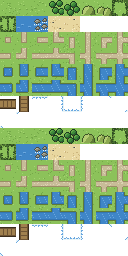
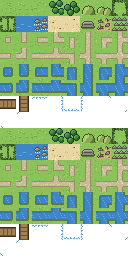
Buildings and fortifications
City, Factory, Airfield, Port and HQ drawn as Normandy stone buildings
with roofs and banners in the owner's color, from a sheet with one
column per owner. They draw under the range tints and replace the
corner flag. Bunker, rubble and dragon's teeth fill terrain tiles
13-15. The pack format gains a properties sheet.

Changed region(s): [[0.625, 0.5625, 1.0, 0.625], [0.625, 0.0625, 1.0, 0.125]]

diff --git a/src/game/artPack.ts b/src/game/artPack.ts
@@ -3,7 +3,7 @@
 // pack can replace one unit or everything. Art never affects the rules.
 
 import { NATIONS, type NationId } from "../engine/data/nations";
-import { TERRAIN, TERRAIN_IDS, type TerrainId } from "../engine/data/terrain";
+import { TERRAIN, TERRAIN_IDS, terrainDef, type TerrainId } from "../engine/data/terrain";
 import { UNIT_TYPE_IDS, UNITS, type UnitTypeId } from "../engine/data/units";
 
 const BUILT_IN_COLORS = {
@@ -76,12 +76,23 @@ export interface TerrainSheet {
   readonly shore?: number;
 }
 
+/** Buildings for owned properties: one row per property, one column per owner (08-art-pipeline §15). */
+export interface PropertySheet {
+  /** Relative to the pack's folder. */
+  readonly path: string;
+  /** The owner each column is for: "neutral", or a player's `team`. */
+  readonly columns: readonly string[];
+  /** The property on each row, top to bottom. */
+  readonly rows: readonly TerrainId[];
+}
+
 export interface ArtPack {
   readonly name: string;
   readonly players: readonly PlayerArt[];
   readonly colors: Readonly<Record<ColorKey, string>>;
   readonly unitSheets: readonly UnitSheet[];
   readonly terrain: TerrainSheet | null;
+  readonly properties: PropertySheet | null;
   readonly unitNames: Readonly<Partial<Record<UnitTypeId, string>>>;
   readonly terrainNames: Readonly<Partial<Record<TerrainId, string>>>;
 }
@@ -98,6 +109,7 @@ export const BUILT_IN_PACK: ArtPack = {
   colors: BUILT_IN_COLORS,
   unitSheets: [],
   terrain: null,
+  properties: null,
   unitNames: {},
   terrainNames: {},
 };
@@ -187,6 +199,19 @@ function parseTerrainSheet(raw: unknown): TerrainSheet {
   };
 }
 
+function parsePropertySheet(raw: unknown): PropertySheet {
+  if (!isObject(raw)) return fail(`"properties" must be an object`);
+  const { path, columns, rows } = raw;
+  if (!isRelativePath(path)) return fail(`properties: "path" must be a file in the pack`);
+  if (!Array.isArray(columns) || columns.length === 0 || !columns.every((c) => typeof c === "string" && c !== "")) {
+    return fail(`properties: "columns" must be a list of owner names`);
+  }
+  if (!Array.isArray(rows)) return fail(`properties: "rows" must be a list`);
+  const bad: unknown = rows.find((row: unknown) => !isTerrain(row) || terrainDef(row).property === undefined);
+  if (bad !== undefined) return fail(`properties: ${JSON.stringify(bad)} isn't a property`);
+  return { path, columns: columns as string[], rows: rows as TerrainId[] };
+}
+
 function parseNames<K extends string>(raw: unknown, isKey: (key: unknown) => key is K, label: string): Partial<Record<K, string>> {
   if (!isObject(raw)) return fail(`"${label}" must be an object`);
   for (const [key, value] of Object.entries(raw)) {
@@ -200,7 +225,7 @@ function parseNames<K extends string>(raw: unknown, isKey: (key: unknown) => key
 export function parseArtPack(raw: unknown): ArtPack {
   if (!isObject(raw)) return fail("a pack must be an object");
   if (typeof raw.name !== "string" || raw.name === "") return fail(`a pack needs a "name"`);
-  const { players, colors, unitSheets, terrain, unitNames, terrainNames } = raw;
+  const { players, colors, unitSheets, terrain, properties, unitNames, terrainNames } = raw;
   if (unitSheets !== undefined && !Array.isArray(unitSheets)) return fail(`"unitSheets" must be a list`);
   return {
     name: raw.name,
@@ -208,6 +233,7 @@ export function parseArtPack(raw: unknown): ArtPack {
     colors: colors === undefined ? BUILT_IN_COLORS : parseColors(colors),
     unitSheets: ((unitSheets ?? []) as unknown[]).map(parseUnitSheet),
     terrain: terrain === undefined ? null : parseTerrainSheet(terrain),
+    properties: properties === undefined ? null : parsePropertySheet(properties),
     unitNames: unitNames === undefined ? {} : parseNames(unitNames, isUnitType, "unitNames"),
     terrainNames: terrainNames === undefined ? {} : parseNames(terrainNames, isTerrain, "terrainNames"),
   };
@@ -218,6 +244,18 @@ export interface UnitArt {
   readonly sheet: number;
   readonly row: number;
   readonly frames: number;
+}
+
+/**
+ * Which frame of the buildings sheet draws this property for this owner (null = unowned), or null to
+ * keep the placeholder and its corner flag.
+ */
+export function findPropertyArt(pack: ArtPack, terrain: TerrainId, owner: number | null): number | null {
+  const sheet = pack.properties;
+  if (!sheet) return null;
+  const column = sheet.columns.indexOf(owner === null ? "neutral" : (pack.players[owner % pack.players.length]?.team ?? ""));
+  const row = sheet.rows.indexOf(terrain);
+  return column < 0 || row < 0 ? null : row * sheet.columns.length + column;
 }
 
 /** Where to find this unit's art for this nation and player, or null to use the placeholder. */

diff --git a/src/game/MapScene.ts b/src/game/MapScene.ts
@@ -1,10 +1,10 @@
 import Phaser from "phaser";
 import type { Combatant, GameEvent } from "../engine/commands";
 import { veterancyFor } from "../engine/data/veterancy";
-import type { Point } from "../engine/map";
+import { terrainAt, type Point } from "../engine/map";
 import { displayHp, type GameState, type Unit, type UnitId } from "../engine/state";
 import * as stats from "../engine/stats";
-import { activePack, findUnitArt, packColor, packColorNumber, type ColorKey } from "./artPack";
+import { activePack, findPropertyArt, findUnitArt, packColor, packColorNumber, type ColorKey } from "./artPack";
 import type { MapView, MenuItem, RangeKind, RangeLayer } from "./controller";
 import { packFileUrl } from "./loadArtPack";
 import { drawPixelText, GLYPH_HEIGHT, textWidth } from "./pixelFont";
@@ -38,6 +38,7 @@ const MENU = { pad: 3, itemHeight: GLYPH_HEIGHT + 4 };
 const IDLE_FRAMES_PER_SECOND = 3;
 const unitSheetKey = (sheet: number) => `pack-units-${sheet}`;
 const TERRAIN_SHEET_KEY = "pack-terrain";
+const PROPERTY_SHEET_KEY = "pack-properties";
 /** How long each frame of moving water shows. */
 const TERRAIN_FRAME_MS = 600;
 const terrainFrameKey = (frame: number) => `terrain-frame-${frame}`;
@@ -68,6 +69,7 @@ export class MapScene extends Phaser.Scene implements MapView {
   private cursor?: Phaser.GameObjects.Graphics;
   private rangeLayer?: Phaser.GameObjects.Graphics;
   private stateLayer?: Phaser.GameObjects.Container;
+  private propertyLayer?: Phaser.GameObjects.Container;
   private pathLayer?: Phaser.GameObjects.Graphics;
   private unitSprites = new Map<UnitId, Phaser.GameObjects.Container>();
   private previewed: UnitId | undefined;
@@ -94,6 +96,9 @@ export class MapScene extends Phaser.Scene implements MapView {
     });
     if (pack.terrain) {
       this.load.spritesheet(TERRAIN_SHEET_KEY, packFileUrl(pack.terrain.path), { frameWidth: TILE_SIZE, frameHeight: TILE_SIZE });
+    }
+    if (pack.properties) {
+      this.load.spritesheet(PROPERTY_SHEET_KEY, packFileUrl(pack.properties.path), { frameWidth: TILE_SIZE, frameHeight: TILE_SIZE });
     }
   }
 
@@ -153,7 +158,8 @@ export class MapScene extends Phaser.Scene implements MapView {
       });
     }
 
-    // Draw order, bottom to top: terrain, range, flags + units, path arrow, cursor, menu.
+    // Draw order, bottom to top: terrain, buildings, range, flags + units, path arrow, cursor, menu.
+    this.propertyLayer = this.add.container(0, 0);
     this.rangeLayer = this.add.graphics();
     this.stateLayer = this.add.container(0, 0);
     this.pathLayer = this.add.graphics();
@@ -577,10 +583,21 @@ export class MapScene extends Phaser.Scene implements MapView {
     this.unitSprites.clear();
     this.redrawChangedTerrain();
 
-    // Property ownership: a small team-colored flag in the tile's top-left corner.
+    // Buildings in their owner's colors. Sit below the range tint so move ranges still show on them.
+    this.propertyLayer?.removeAll(true);
+    const drawn = new Set<string>();
+    const hasSheet = this.textures.exists(PROPERTY_SHEET_KEY);
+    for (const prop of this.state.properties) {
+      const frame = hasSheet ? findPropertyArt(activePack(), terrainAt(this.state.map, prop.pos), prop.owner) : null;
+      if (frame === null) continue;
+      this.propertyLayer?.add(this.add.image(prop.pos.x * TILE_SIZE, prop.pos.y * TILE_SIZE, PROPERTY_SHEET_KEY, frame).setOrigin(0));
+      drawn.add(`${prop.pos.x},${prop.pos.y}`);
+    }
+
+    // Owned properties without building art: a small team-colored flag in the tile's top-left corner.
     const flags = this.add.graphics();
     for (const prop of this.state.properties) {
-      if (prop.owner === null) continue;
+      if (prop.owner === null || drawn.has(`${prop.pos.x},${prop.pos.y}`)) continue;
       const [fill, outline] = playerColors(prop.owner);
       const x = prop.pos.x * TILE_SIZE;
       const y = prop.pos.y * TILE_SIZE;

diff --git a/tests/artPack.test.ts b/tests/artPack.test.ts
@@ -4,6 +4,7 @@ import { UNITS } from "../src/engine/data/units";
 import {
   activePack,
   BUILT_IN_PACK,
+  findPropertyArt,
   findUnitArt,
   packColor,
   packColorNumber,
@@ -181,5 +182,45 @@ describe("the active pack", () => {
       expect(packColor("blast")).toBe("#112233");
       expect(packColorNumber("blast")).toBe(0x112233);
     });
+  });
+});
+
+describe("art packs: buildings (08-art-pipeline §15)", () => {
+  const properties = { path: "b.png", columns: ["neutral", "blue", "red"], rows: ["city", "factory", "hq"] };
+  const pack = parseArtPack({
+    name: "x",
+    players: [
+      { team: "blue", fill: "#3a6fd8", outline: "#1a3270" },
+      { team: "red", fill: "#c8463a", outline: "#5e1a14" },
+      { team: "purple", fill: "#8040c0", outline: "#301050" },
+    ],
+    properties,
+  });
+
+  it("an unowned property uses the neutral column", () => {
+    expect(findPropertyArt(pack, "factory", null)).toBe(3 + 0);
+  });
+
+  it("an owned property uses its owner's team column", () => {
+    expect(findPropertyArt(pack, "hq", 1)).toBe(6 + 2);
+  });
+
+  it("an owner whose team has no column keeps the placeholder and flag", () => {
+    expect(findPropertyArt(pack, "city", 2)).toBeNull();
+  });
+
+  it("a property the sheet doesn't draw keeps the placeholder", () => {
+    expect(findPropertyArt(pack, "airfield", 0)).toBeNull();
+  });
+
+  it("a pack with no buildings keeps every placeholder", () => {
+    expect(findPropertyArt(parseArtPack({ name: "x" }), "city", 0)).toBeNull();
+  });
+
+  it.each([
+    ["a row that isn't a property", { ...properties, rows: ["forest"] }, /isn't a property/],
+    ["no columns", { ...properties, columns: [] }, /owner names/],
+  ])("rejects %s", (_, change, message) => {
+    expect(() => parseArtPack({ name: "x", properties: change })).toThrow(message);
   });
 });

diff --git a/docs/08-art-pipeline.md b/docs/08-art-pipeline.md
@@ -1,6 +1,6 @@
 # Topic Doc 08: Art Assets and Pipeline
 
-**Status:** Asset list complete. US and German land unit sprites are approved and drawn in the game (section 12), natural terrain is drawn in the game (section 14), and art can be swapped with art packs (section 13). Everything else is still open. Game mechanics are paused at milestone 10 while visuals are worked on.
+**Status:** Asset list complete. US and German land unit sprites are approved and drawn in the game (section 12), terrain, buildings and fortifications are drawn in the game (sections 14–15), and art can be swapped with art packs (section 13). Everything else is still open. Game mechanics are paused at milestone 10 while visuals are worked on.
 **Last updated:** 2026-11-06
 **Depends on:** 00-master-design.md (sections 3, 6, 12, 13, 14), 01-units.md, 02-terrain.md.
 
@@ -52,7 +52,7 @@ Each is 16×16 unless noted. The tiles in this section are drawn and in the game
 | Obstacle | 1 | Dragon's teeth or similar |
 | Beach obstacle | 1 | For phase 2 landings |
 
-Owned properties use team color, which today is a small flag in the tile's corner.
+Properties, Bunker, Rubble and Obstacle are drawn and in the game (section 15). The beach obstacle and damaged bunker versions aren't drawn yet.
 
 ## 4. Units (map sprites)
 
@@ -252,6 +252,7 @@ Only `name` is required. Anything else you leave out keeps the built-in look, so
 | `unitSheets` | Sprite sheets: `nation`, `team`, `path`, `frames` and `rows` |
 | `terrain` | One sheet: `path`, `tiles`, and optionally `frames`, `connected`, `bridges` and `shore` (section 14). Tiles are numbered left to right, top to bottom |
 | `unitNames` | Display names by unit id, such as `"mediumTank": "Sherman"` |
+| `properties` | Buildings for properties: `path`, `columns` and `rows` (section 15) |
 | `terrainNames` | Display names by terrain id |
 
 **Unit sheets** use 16×16 frames, with one row per unit and idle frames running across. Draw units facing right: maps mirror them when a side faces left (section 12). `rows` lists the unit on each row from the top, using `null` for an empty row. A sheet covers one nation and one team. A unit with no art for its nation and team keeps its placeholder, so German units never borrow American sprites.
@@ -260,11 +261,11 @@ Only `name` is required. Anything else you leave out keeps the built-in look, so
 
 **The default pack** (`public/assets/packs/default/`) is the game's normal look. It points at the sheets `npm run art` writes to `public/assets/units/`. If the art tool's row order changes, `rows` in the pack has to change with it.
 
-**Not in packs yet:** the 3×5 map font, the HP and veterancy badges, property flags, HUD national flags, and menu words like FIRE. They can follow as that art gets made.
+**Not in packs yet:** the 3×5 map font, the HP and veterancy badges, the placeholder corner flags, HUD national flags, and menu words like FIRE. They can follow as that art gets made.
 
 ## 14. Terrain tiles
 
-The terrain tiles are pixel grids in `tools/art/terrain.mjs`. `npm run art` renders them to `public/assets/terrain/terrain.png`, and the default pack points at that sheet. Properties (City, Factory, Airfield, Port, HQ), Bunker, Rubble and Obstacle aren't drawn yet and keep their placeholders.
+The terrain tiles are pixel grids in `tools/art/terrain.mjs`. `npm run art` renders them to `public/assets/terrain/terrain.png`, and the default pack points at that sheet. Properties are on their own sheet (section 15). Bunker, Rubble and Obstacle are terrain tiles 13–15.
 
 **Answers to section 9:**
 - **Tall tiles (Q9):** no. Every tile stays inside its own 16×16 square, so draw order doesn't change.
@@ -297,7 +298,9 @@ A road or river that dead-ends at the map's edge runs straight on past it. One t
 | 9 | Sea |
 | 10 | Reef |
 | 11–12 | Beach |
-| 13–15 | Empty |
+| 13 | Bunker |
+| 14 | Rubble |
+| 15 | Obstacle (dragon's teeth) |
 | 16–31 | Road, by neighbor mask: N=1, E=2, S=4, W=8, added together |
 | 32–47 | River, by the same mask |
 | 48–49 | Bridge deck: left to right, top to bottom |
@@ -312,4 +315,34 @@ A road or river that dead-ends at the map's edge runs straight on past it. One t
 | `connected` | `road` and `river`: the first of their 16 pieces |
 | `bridges` | `horizontal` and `vertical` deck tiles, drawn over the river piece |
 | `shore` | The first of the 8 foam pieces |
+
+## 15. Buildings
+
+Properties are pixel grids in `tools/art/buildings.mjs`, rendered by `npm run art` to `public/assets/terrain/buildings.png`. The style is a Normandy village: cream stone walls with a roof, banner or trim in the owner's color.
+
+| Property | Look |
+|---|---|
+| City | Two stone houses with a chimney |
+| Factory | Brick shed with a sawtooth roof and a tall chimney |
+| Airfield | Round-roofed hangar and windsock beside a runway |
+| Port | Warehouse and crane on a quay, with pier posts in the water |
+| HQ | A chateau with two towers and a tall banner, so it stands out from a City |
+
+**Owner colors:** the sheet has one row per property and one column per owner: neutral, blue, red, green, gold. Neutral is weathered slate grey. A captured property switches column at once.
+
+**Corner flags:** a property drawn from the sheet shows no corner flag, since its colors show the owner. A property with no art for its owner's team keeps the placeholder and its flag.
+
+**Draw order:** buildings sit above the terrain and below the move and attack range tints, so ranges still show on them.
+
+**Pack field** `properties`:
+
+| Field | What it does |
+|---|---|
+| `path` | The buildings sheet |
+| `columns` | The owner each column is for: `neutral`, or a player's `team` |
+| `rows` | The property on each row, top to bottom |
+
+**Fortifications** are terrain tiles, not buildings, because no one owns them: a concrete pillbox for the Bunker, broken slabs and rebar for Rubble, and rows of dragon's teeth for the Obstacle. A unit standing on a bunker covers most of it, as before.
+
+**Not done yet:** damaged bunker versions (damage shows as an HP number), and the phase 2 beach obstacle.
 

diff --git a/docs/00-master-design.md b/docs/00-master-design.md
@@ -297,3 +297,4 @@ UI falls into four categories:
 | 2026-11-01 | A tile info box shows the terrain, its defense stars and any unit's name, with no percentages. Air units show no stars. It replaces the debug-only terrain panel, so property owners and capture progress are no longer listed there |
 | 2026-11-01 | Arrow keys are limited to the move range while a unit is selected, and to the choices while firing or unloading (11-tech-setup §3c) |
 | 2026-11-06 | Terrain art: variants by map position, 16-piece roads and rivers, bridge decks over rivers, and shore foam layered on sea instead of 47 coastline tiles. Water animates in 2 frames; tiles never overlap the one above (08-art-pipeline §14) |
+| 2026-11-06 | Buildings show their owner by roof and banner color, from a sheet with one column per owner, and replace the corner flag. Buildings draw under range tints; fortifications are terrain tiles (08-art-pipeline §15) |
